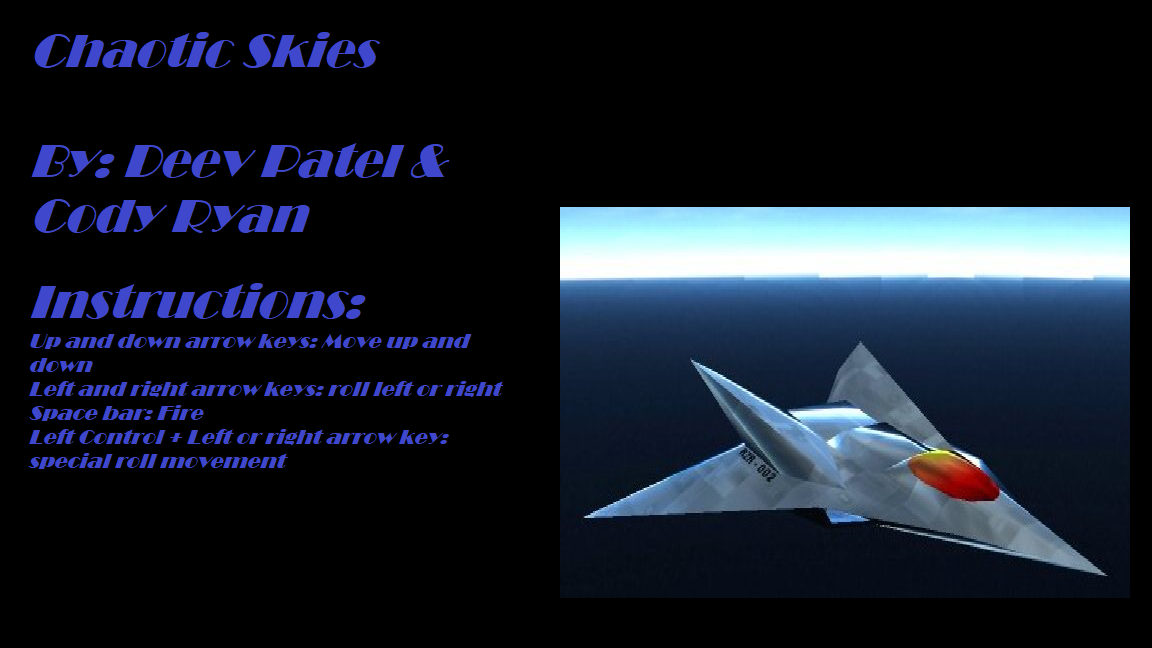
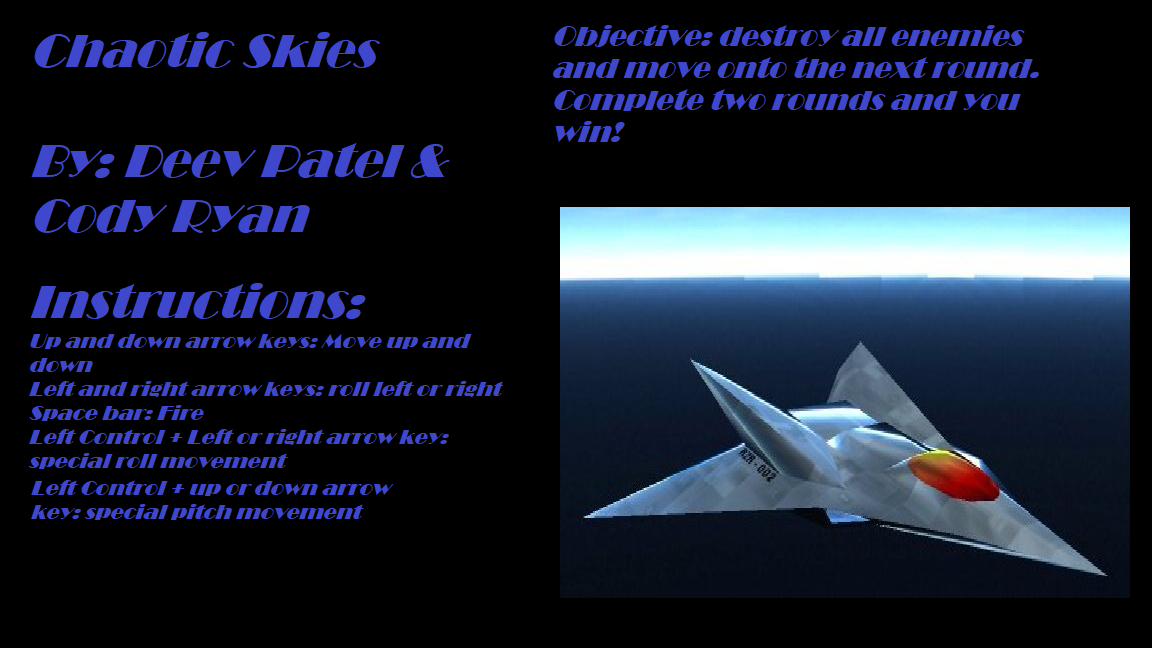
UI fixes and some Game play aspecs

Changed region(s): [[0.4688, 0.0309, 0.9062, 0.216], [0.0312, 0.7407, 0.3438, 0.8025]]

diff --git a/src/UIMgr.cpp b/src/UIMgr.cpp
@@ -33,14 +33,20 @@ void UIMgr::LoadLevel(void) {
 
 	m_tray_mgr->createButton(OgreBites::TL_BOTTOMLEFT, "Credits", "View Credits");
 	m_tray_mgr->createButton(OgreBites::TL_BOTTOMLEFT, "Exit", "Exit Game!");
+	m_restart_button = m_tray_mgr->createButton(OgreBites::TL_BOTTOMRIGHT, "Restart", "Restart Game");
+	m_restart_button->hide();
+
+
 	m_enemy_counter = m_tray_mgr->createLabel(OgreBites::TL_BOTTOMLEFT, "EnemyCounter", "Enemy Counter: ");
 	m_levels = m_tray_mgr->createLabel(OgreBites::TL_BOTTOMLEFT, "LevelsWonCounter", "Levels won: ");
 	m_tray_mgr->getCursorImage()->hide();
+
 
 	m_engine->GetSoundMgr()->LoadAudio(m_intro_music, m_intro_music);
 	m_engine->GetSoundMgr()->LoadAudio(m_flight_sound, m_flight_sound);
 
 	m_engine->GetSoundMgr()->PlayAudio(m_intro_music);
+	//m_tray_mgr->showFrameStats(OgreBites::TL_TOPRIGHT);
 }
 
 void UIMgr::Tick(float dt) {
@@ -124,4 +130,19 @@ void UIMgr::buttonHit(OgreBites::Button *b) {
 		m_tray_mgr->clearTray(OgreBites::TL_BOTTOMRIGHT);
 		m_tray_mgr->hideBackdrop();
 	}
+	else if(b->getName() == "Restart"){
+		m_engine->GetGameMgr()->ResetLevel();
+		m_tray_mgr->hideBackdrop();
+	}
+}
+void UIMgr::buttonHide(OgreBites::Button *b){
+	b->hide();
+}
+
+OgreBites::SdkTrayManager* UIMgr::GetTrayMgr(void){
+	return m_tray_mgr;
+}
+
+OgreBites::Button* UIMgr::GetRestartButton(void){
+	return m_restart_button;
 }

diff --git a/src/GameMgr.cpp b/src/GameMgr.cpp
@@ -160,7 +160,15 @@ void GameMgr::WinLevel(void) {
 
 void GameMgr::LoseLevel(void) {
 	std::cout << "LEVEL LOST" << std::endl;
-	ResetLevel();
+	m_engine->GetUIMgr()->ShowBackdrop();
+	m_engine->GetSoundMgr()->StopAllAudio();
+	m_engine->GetUIMgr()->GetTrayMgr()->showBackdrop("youlost/UI");
+	m_engine->GetUIMgr()->GetRestartButton()->show();
+
+	m_engine->GetUIMgr()->GetTrayMgr()->moveWidgetToTray(m_engine->GetUIMgr()->GetRestartButton(),OgreBites::TL_BOTTOMRIGHT);
+	//m_engine->GetUIMgr()->GetRestartButton()->getOverlayElement()->setPosition(0.8,0.8);
+
+
 }
 
 void GameMgr::ResetLevel(void) {
@@ -377,6 +385,7 @@ void GameMgr::HandleBulletsAndFiring(float dt) {
 				if ((*b)->HasCollidedWithInLastTick(e->GetPosition())) {
 					e->AddSmoke();
 					m_engine->GetSoundMgr()->PlayAudio(m_explosion_sound);
+					m_engine->GetUIMgr()->GetTrayMgr()->showBackdrop("enemydestroyed/UI");
 					e->AddCommand(new CommandDie(e), true);
 					m_engine->GetSoundMgr()->PauseAllAudio();
 					m_engine->GetSoundMgr()->PlayAudio(m_explosion_sound);
@@ -405,6 +414,7 @@ void GameMgr::RemoveDeadEntities(void) {
 		if (!(*i)->IsAlive()) {
 			m_engine->GetEntityMgr()->DeleteEntity(*i);
 			i = m_enemies.erase(i);
+			m_engine->GetUIMgr()->GetTrayMgr()->hideBackdrop();
 		}
 	}
 

diff --git a/include/UIMgr.h b/include/UIMgr.h
@@ -35,6 +35,8 @@ public:
 public:
 	float GetHealthPercentage(void) const;
 	void SetHealthBarPercentage(float percentage, bool accumulate = false);
+	OgreBites::SdkTrayManager* GetTrayMgr(void);
+	OgreBites::Button* GetRestartButton(void);
 
 	void PlayFlightSound(void);
 
@@ -42,6 +44,7 @@ public:
 
 private:
 	virtual void buttonHit(OgreBites::Button *b) override final;
+	 void buttonHide(OgreBites::Button *b);
 
 private:
 	OgreBites::InputContext m_input_context;
@@ -49,9 +52,12 @@ private:
 	Ogre::OverlaySystem* m_overlay_system;
 
 	OgreBites::Button* m_start_button;
+	OgreBites::Button* m_restart_button;
 
 	OgreBites::Label* m_enemy_counter;
 	OgreBites::Label* m_levels;
+	OgreBites::Label* m_position;
+	OgreBites::Label* m_enemy_position;
 
 	OgreBites::ProgressBar* m_health_bar;
 

diff --git a/src/CommandSubClasses/CommandPitch.cpp b/src/CommandSubClasses/CommandPitch.cpp
@@ -14,7 +14,7 @@ void CommandPitch::Tick(float dt) {
 	if (m_running) {
 		m_parent->Pitch(m_pitch_rate, true);
 
-		if (Ogre::Math::Abs(m_parent->GetPitch() - m_pitch_target).valueDegrees() < 1) {
+		if (Ogre::Math::Abs(m_parent->GetPitch() - m_pitch_target).valueDegrees() < 5) {
 			m_running = false;
 			m_parent->PitchStop();
 		}
@@ -23,7 +23,7 @@ void CommandPitch::Tick(float dt) {
 
 void CommandPitch::Init(void) {
 	Ogre::Degree pitch_current = m_parent->GetPitch();
-	m_pitch_target = pitch_current + Ogre::Degree((m_pitch_rate.valueDegrees() > 0) ? 180 : -180);
+	m_pitch_target = pitch_current + Ogre::Degree((m_pitch_rate.valueDegrees() > 0) ? 185 : -185);
 	FixAngle(m_pitch_target);
 	m_parent->Pitch(m_pitch_target, true);
 

diff --git a/src/CommandSubClasses/CommandRoll.cpp b/src/CommandSubClasses/CommandRoll.cpp
@@ -14,7 +14,7 @@ void CommandRoll::Tick(float dt) {
 	if (m_running) {
 		m_parent->Roll(m_roll_rate, true);
 
-		if (Ogre::Math::Abs(m_parent->GetRoll() - m_roll_target).valueDegrees() < 1) {
+		if (Ogre::Math::Abs(m_parent->GetRoll() - m_roll_target).valueDegrees() < 5) {
 			m_running = false;
 			m_parent->RollStop();
 		}
@@ -23,7 +23,7 @@ void CommandRoll::Tick(float dt) {
 
 void CommandRoll::Init(void) {
 	Ogre::Degree roll_current = m_parent->GetRoll();
-	m_roll_target = roll_current + Ogre::Degree((m_roll_rate.valueDegrees() > 0) ? 180 : -180);
+	m_roll_target = roll_current + Ogre::Degree((m_roll_rate.valueDegrees() > 0) ? 185 : -185);
 	FixAngle(m_roll_target);
 	m_parent->Roll(m_roll_rate, true);
 
